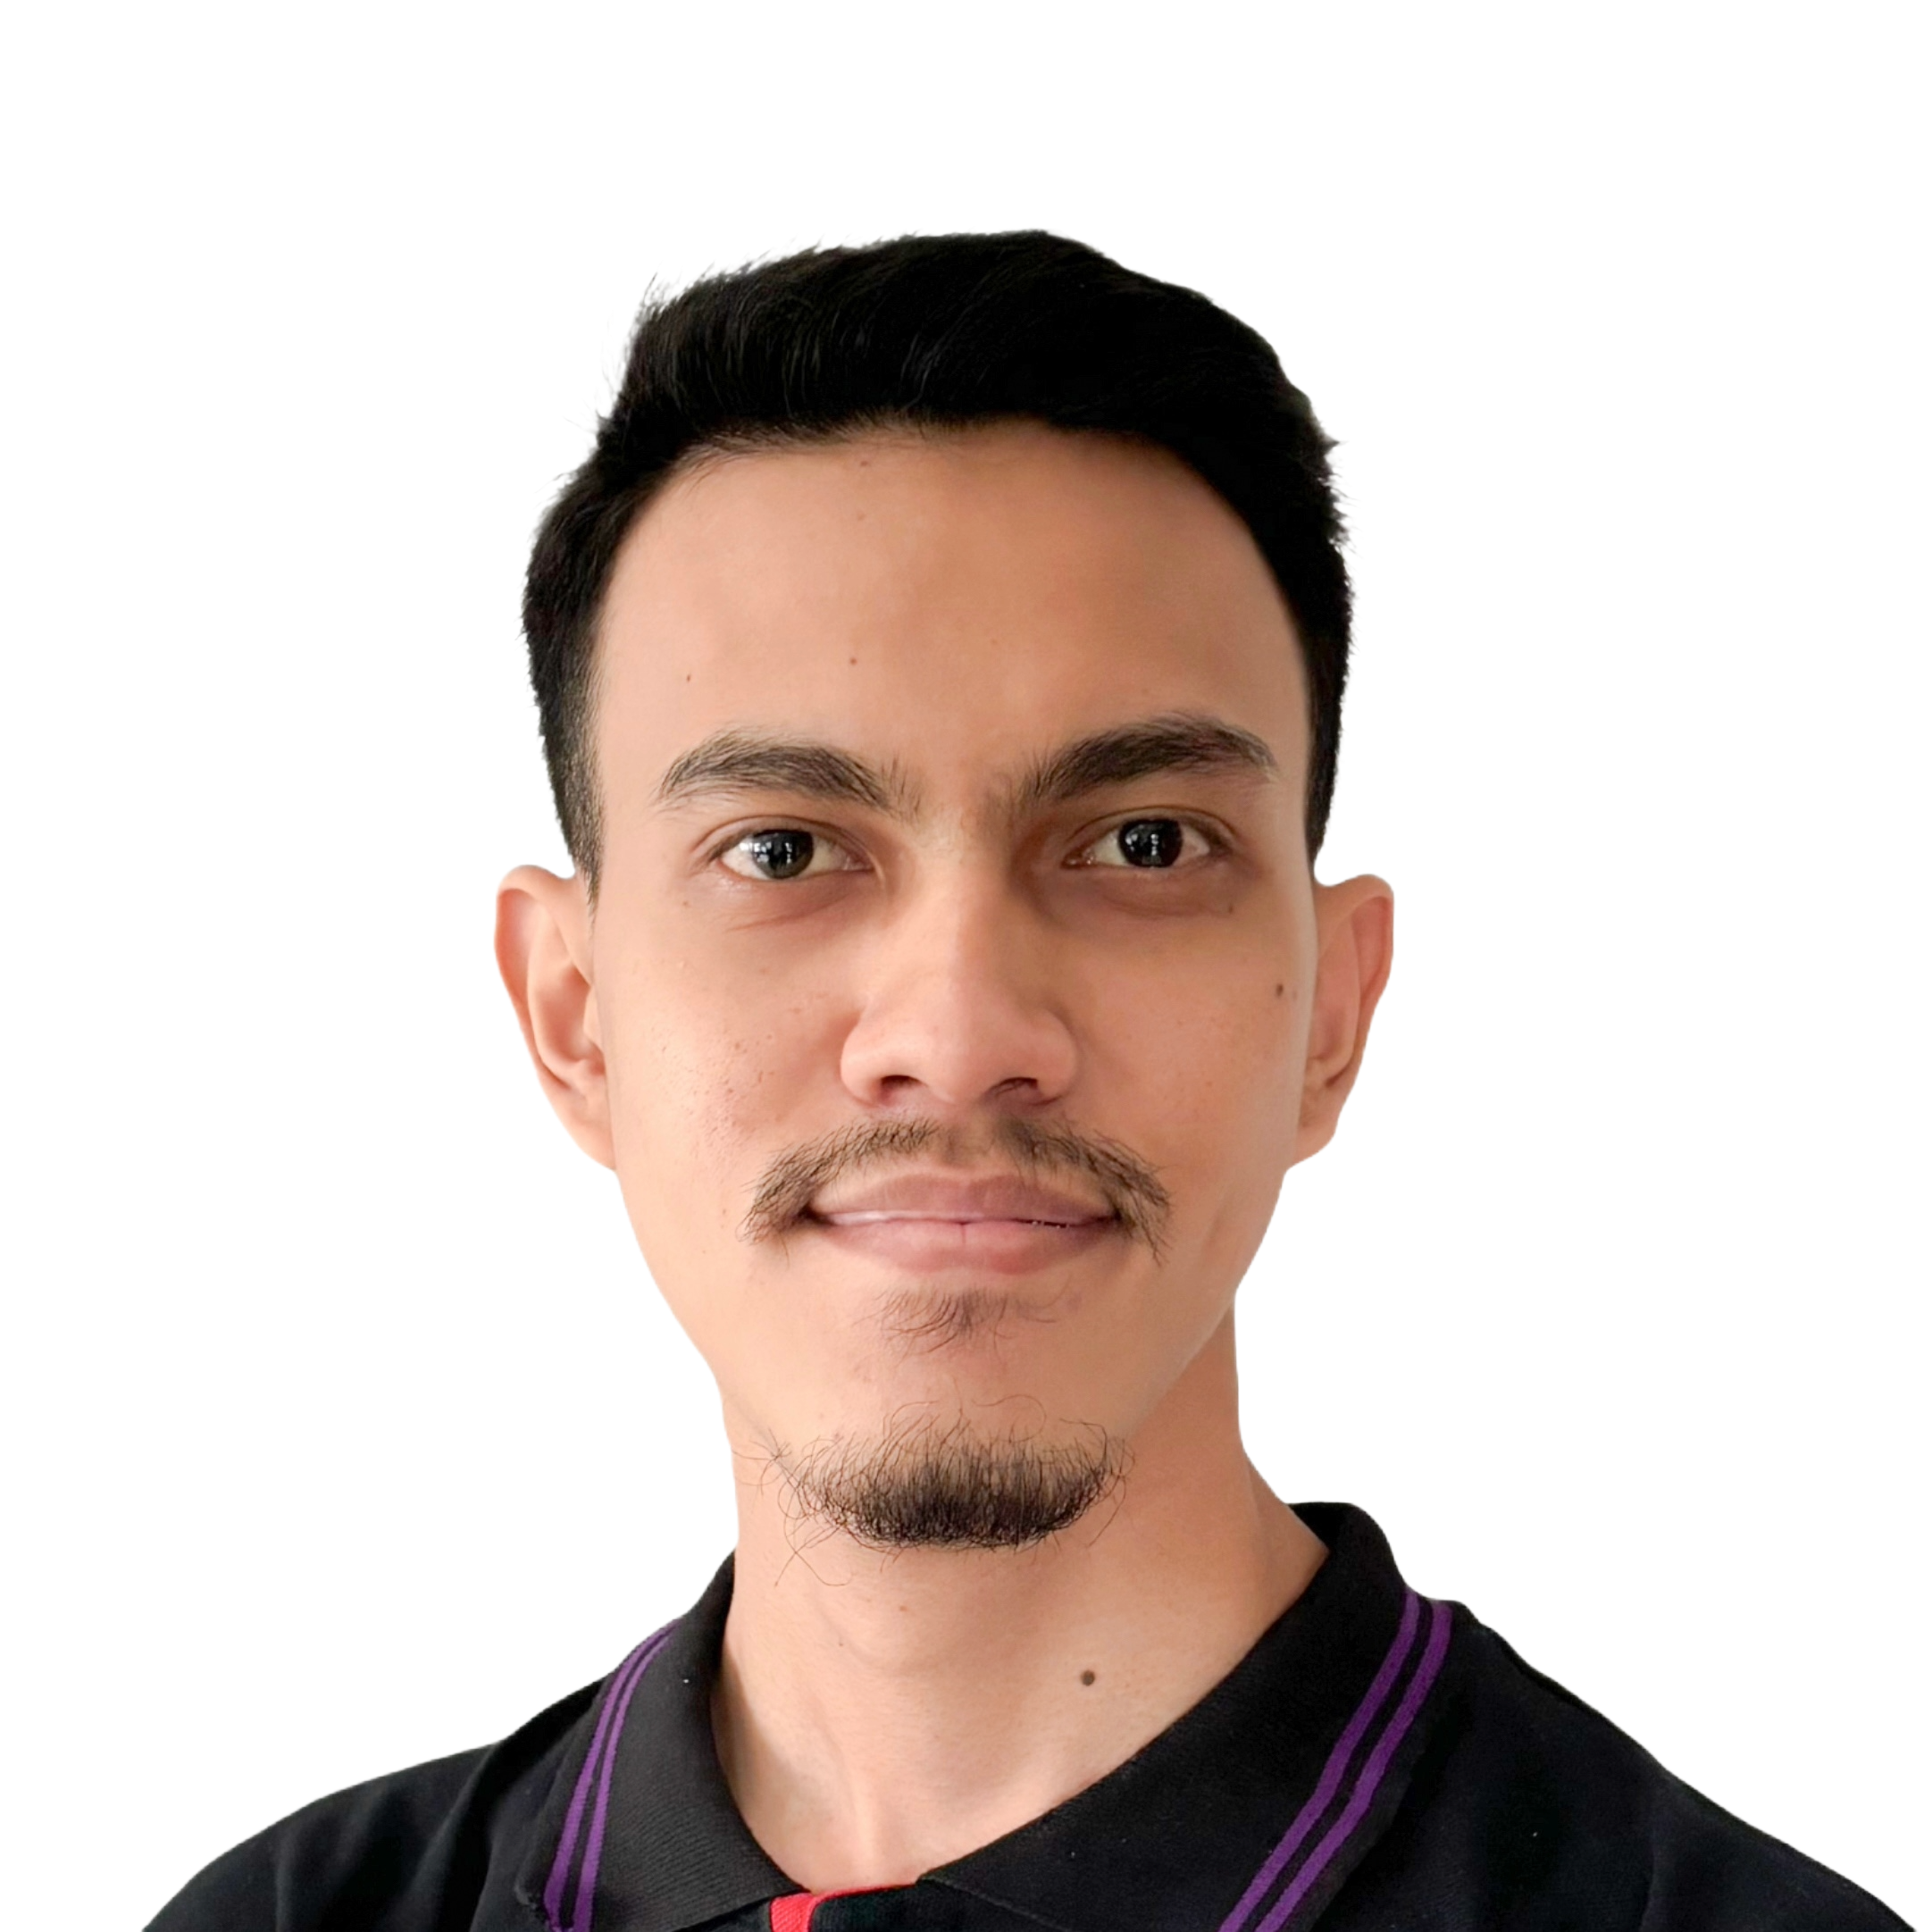
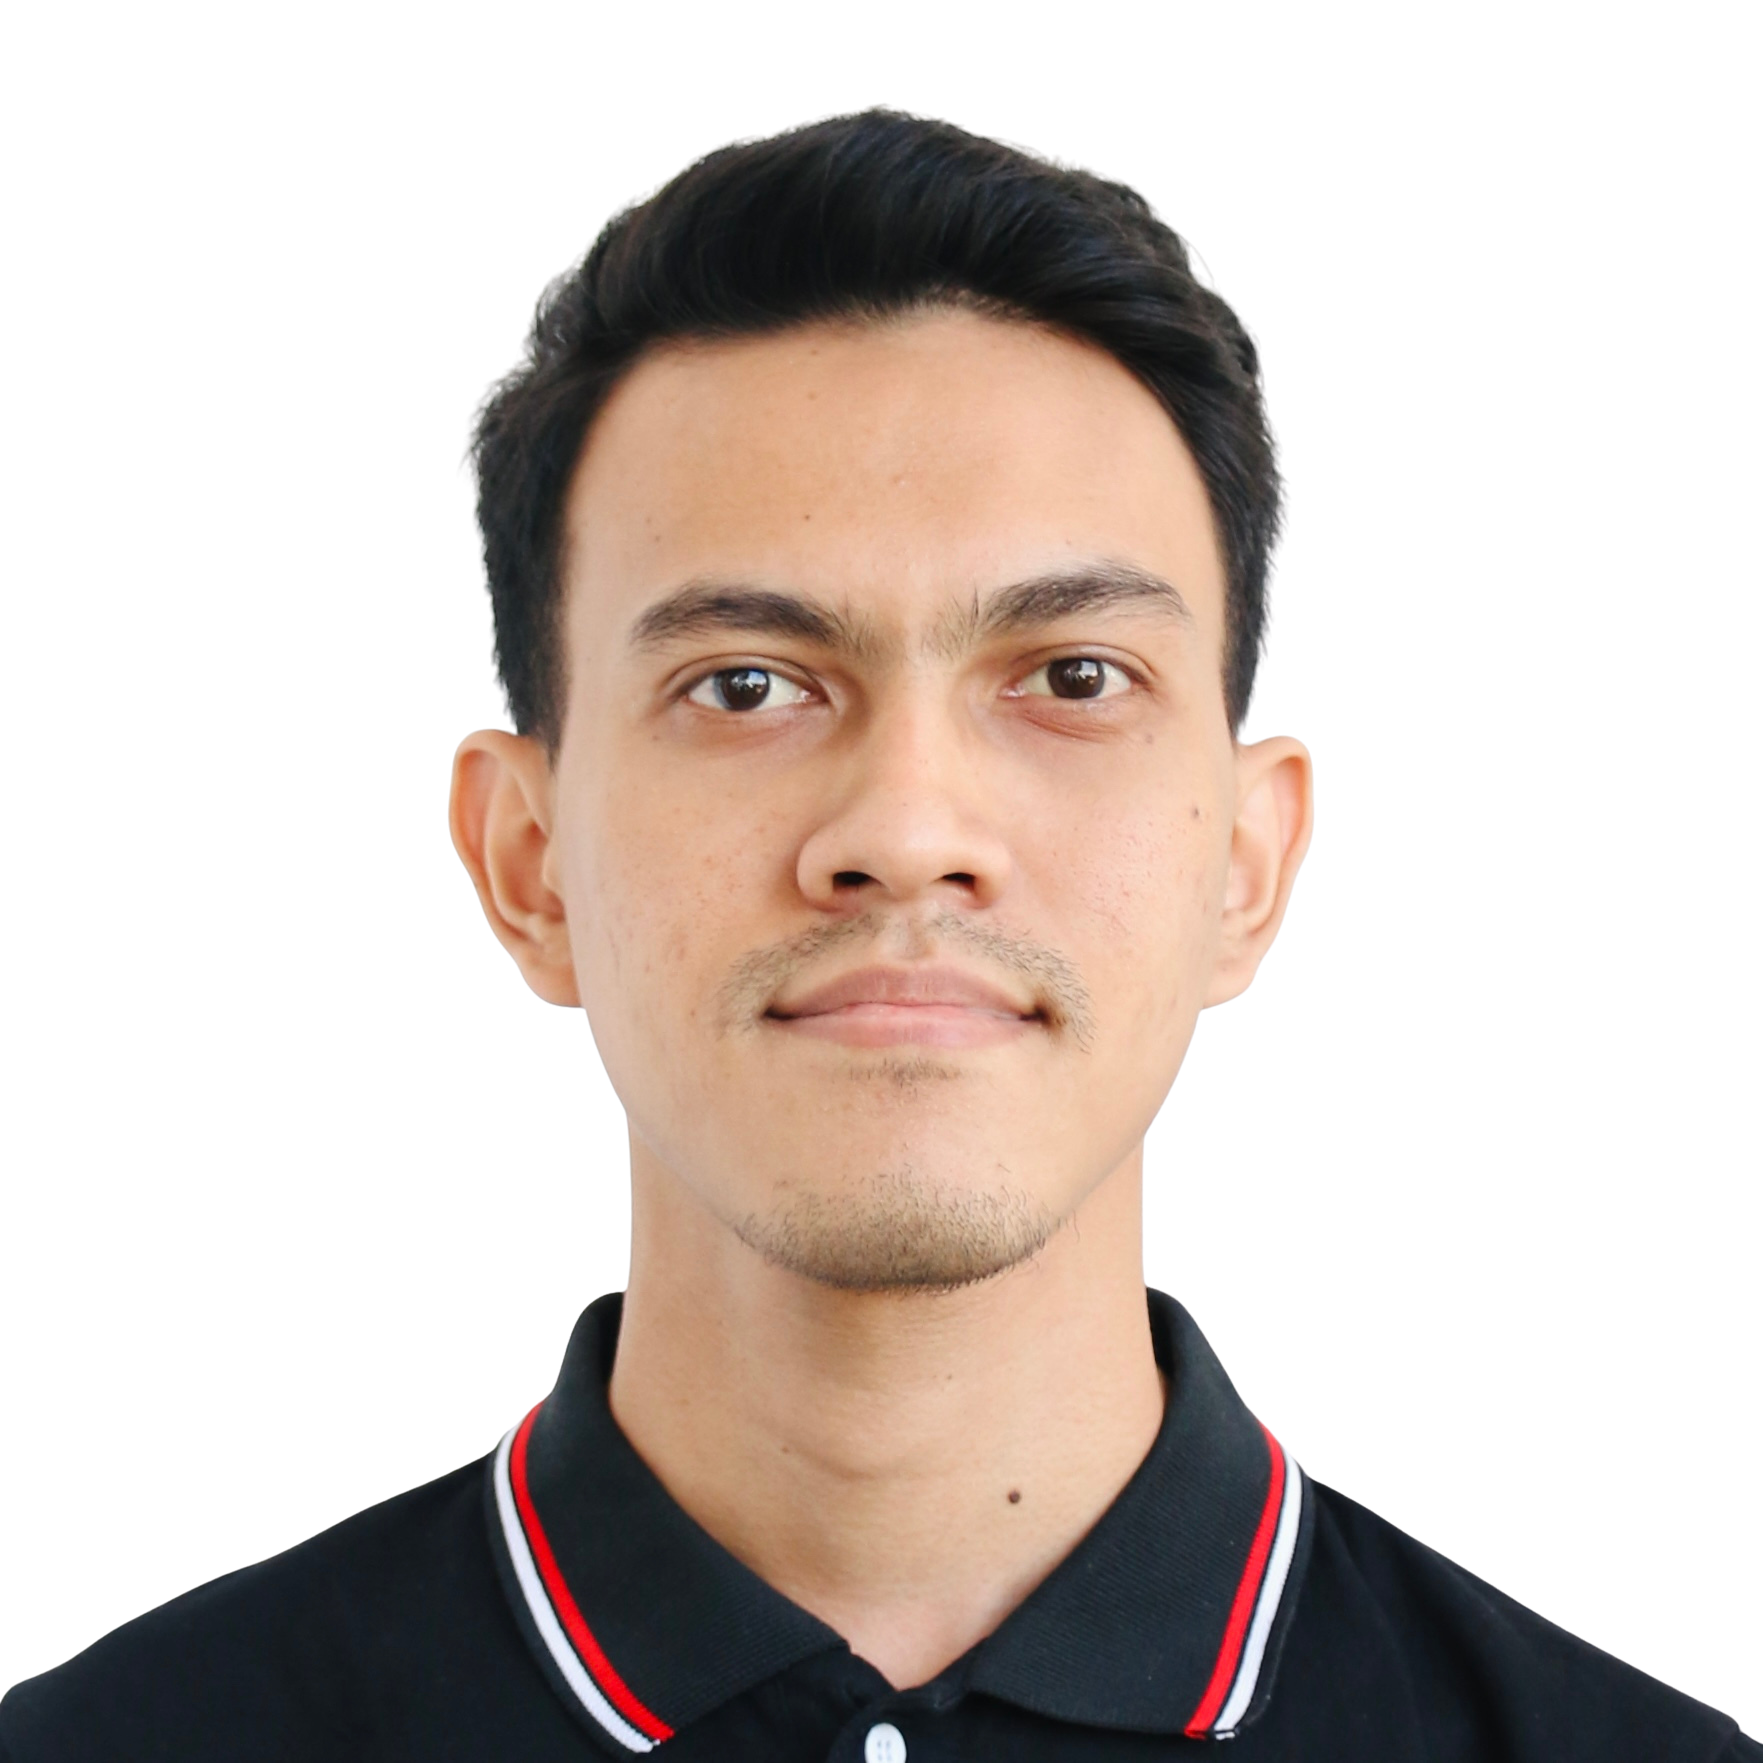
chore: update profile image and remove unused variants
- Replace profile-2.jpg with profile-2.png (matches index.html reference)
- Remove unused profile-1.jpeg
- Update README asset tree to reflect new profile-2.png

diff --git a/README.md b/README.md
@@ -43,7 +43,7 @@ The project uses the following external libraries loaded via CDN:
 │   ├── icon.png            # Website favicon
 │   ├── banner.jpg          # Hero section background
 │   ├── profile-1.png       # Profile image (About section)
-│   ├── profile-2.jpg       # Profile image (Hero section)
+│   ├── profile-2.png       # Profile image (Hero section)
 │   ├── effect.png          # Visual effect asset
 │   └── [project logos]     # Portfolio project thumbnails
 │       ├── pose.png